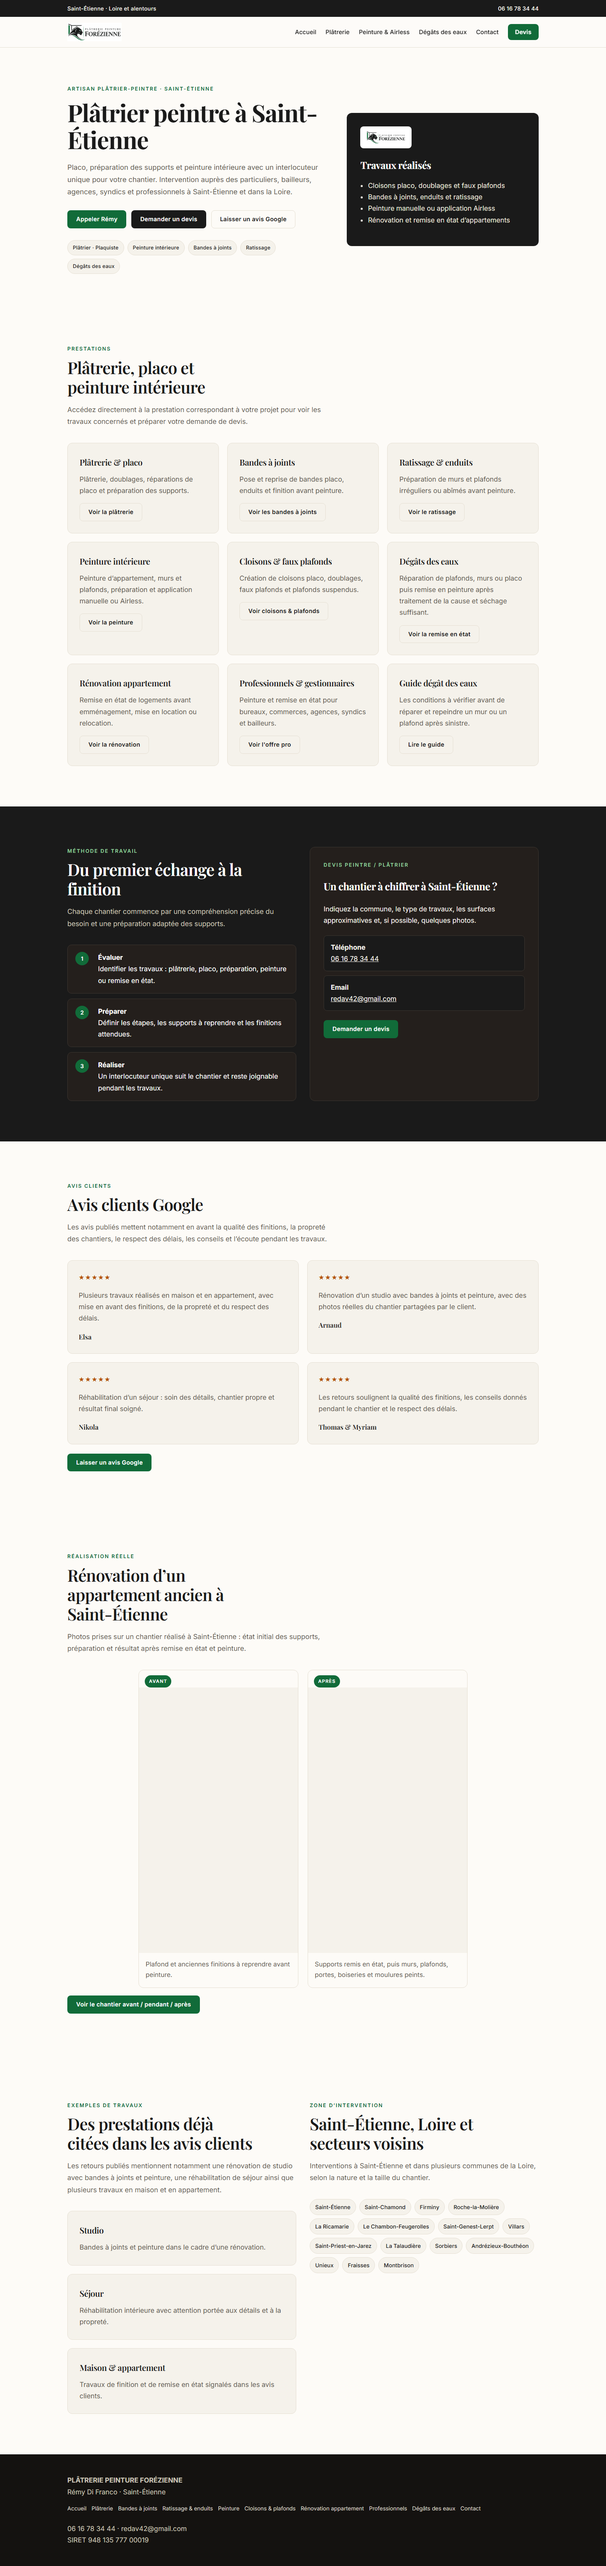
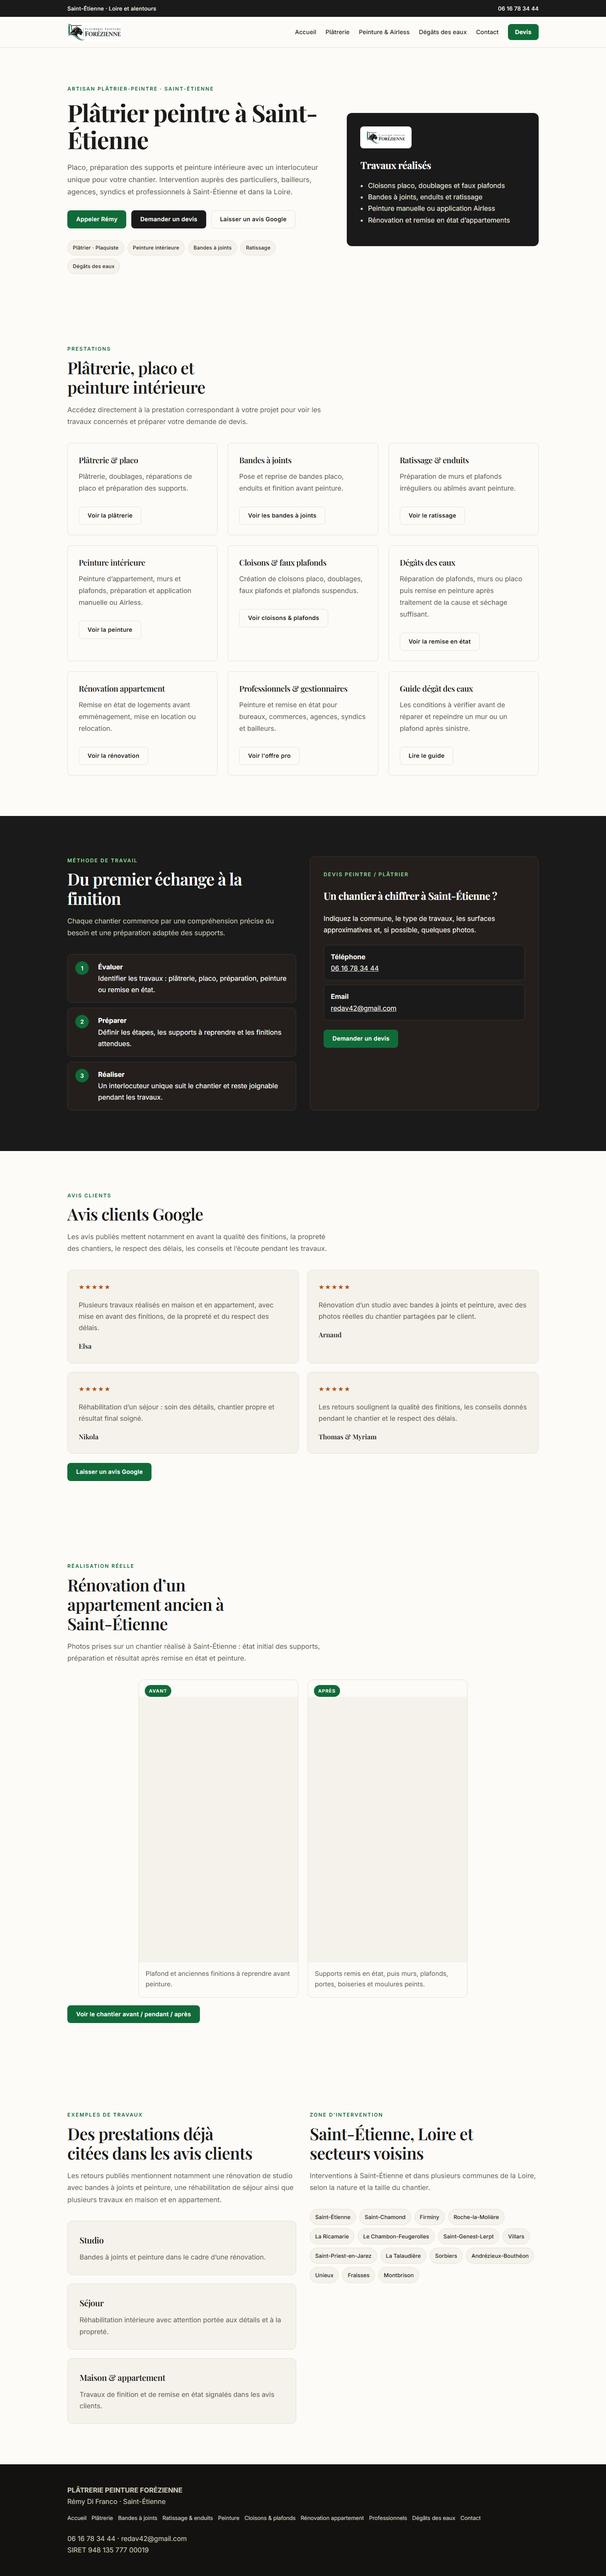
Refine services cards with minimalist premium styling

diff --git a/index.html b/index.html
@@ -24,7 +24,7 @@
 <header><div class="container nav"><a class="brand" href="index.html"><img src="assets/logo-premium.webp" width="660" height="225" alt="Panthère - Plâtrerie Peinture Forézienne"><span>PLÂTRERIE PEINTURE<br>FORÉZIENNE</span></a><nav aria-label="Navigation principale"><a href="index.html">Accueil</a><a href="platrerie.html">Plâtrerie</a><a href="peinture-airless.html">Peinture & Airless</a><a href="degats-des-eaux.html">Dégâts des eaux</a><a href="contact.html">Contact</a><a class="btn btn-green" href="contact.html">Devis</a></nav></div></header>
 <main id="contenu">
 <section class="hero"><div class="container hero-grid"><div><div class="eyebrow">Artisan plâtrier-peintre · Saint-Étienne</div><h1>Plâtrier peintre à Saint-Étienne</h1><p>Placo, préparation des supports et peinture intérieure avec un interlocuteur unique pour votre chantier. Intervention auprès des particuliers, bailleurs, agences, syndics et professionnels à Saint-Étienne et dans la Loire.</p><div class="hero-actions"><a class="btn btn-green" href="tel:+33616783444">Appeler Rémy</a><a class="btn btn-dark" href="contact.html">Demander un devis</a><a class="btn btn-outline" href="https://g.page/r/CVd1CIpYXGkXEBM/review" target="_blank" rel="noopener noreferrer">Laisser un avis Google</a></div><div class="proof"><span class="chip">Plâtrier · Plaquiste</span><span class="chip">Peinture intérieure</span><span class="chip">Bandes à joints</span><span class="chip">Ratissage</span><span class="chip">Dégâts des eaux</span></div></div><aside class="hero-card"><img src="assets/logo-premium.webp" width="660" height="225" alt="Logo Plâtrerie Peinture Forézienne"><h2>Travaux réalisés</h2><ul><li>Cloisons placo, doublages et faux plafonds</li><li>Bandes à joints, enduits et ratissage</li><li>Peinture manuelle ou application Airless</li><li>Rénovation et remise en état d’appartements</li></ul></aside></div></section>
-<section><div class="container"><div class="section-head"><div class="eyebrow">Prestations</div><h2>Plâtrerie, placo et peinture intérieure</h2><p>Accédez directement à la prestation correspondant à votre projet pour voir les travaux concernés et préparer votre demande de devis.</p></div><div class="grid-3"><article class="card"><h3>Plâtrerie & placo</h3><p>Plâtrerie, doublages, réparations de placo et préparation des supports.</p><p style="margin-top:12px"><a class="btn btn-outline" href="platrerie.html">Voir la plâtrerie</a></p></article><article class="card"><h3>Bandes à joints</h3><p>Pose et reprise de bandes placo, enduits et finition avant peinture.</p><p style="margin-top:12px"><a class="btn btn-outline" href="bandes-a-joints-jointeur.html">Voir les bandes à joints</a></p></article><article class="card"><h3>Ratissage & enduits</h3><p>Préparation de murs et plafonds irréguliers ou abîmés avant peinture.</p><p style="margin-top:12px"><a class="btn btn-outline" href="ratissage-enduits.html">Voir le ratissage</a></p></article><article class="card"><h3>Peinture intérieure</h3><p>Peinture d’appartement, murs et plafonds, préparation et application manuelle ou Airless.</p><p style="margin-top:12px"><a class="btn btn-outline" href="peinture-airless.html">Voir la peinture</a></p></article><article class="card"><h3>Cloisons & faux plafonds</h3><p>Création de cloisons placo, doublages, faux plafonds et plafonds suspendus.</p><p style="margin-top:12px"><a class="btn btn-outline" href="cloisons-faux-plafonds.html">Voir cloisons & plafonds</a></p></article><article class="card"><h3>Dégâts des eaux</h3><p>Réparation de plafonds, murs ou placo puis remise en peinture après traitement de la cause et séchage suffisant.</p><p style="margin-top:12px"><a class="btn btn-outline" href="degats-des-eaux.html">Voir la remise en état</a></p></article><article class="card"><h3>Rénovation appartement</h3><p>Remise en état de logements avant emménagement, mise en location ou relocation.</p><p style="margin-top:12px"><a class="btn btn-outline" href="renovation-appartement.html">Voir la rénovation</a></p></article><article class="card"><h3>Professionnels & gestionnaires</h3><p>Peinture et remise en état pour bureaux, commerces, agences, syndics et bailleurs.</p><p style="margin-top:12px"><a class="btn btn-outline" href="professionnels.html">Voir l'offre pro</a></p></article><article class="card"><h3>Guide dégât des eaux</h3><p>Les conditions à vérifier avant de réparer et repeindre un mur ou un plafond après sinistre.</p><p style="margin-top:12px"><a class="btn btn-outline" href="quand-repeindre-apres-degat-des-eaux.html">Lire le guide</a></p></article></div></div></section>
+<section><div class="container"><div class="section-head"><div class="eyebrow">Prestations</div><h2>Plâtrerie, placo et peinture intérieure</h2><p>Accédez directement à la prestation correspondant à votre projet pour voir les travaux concernés et préparer votre demande de devis.</p></div><div class="grid-3 services-grid"><article class="card"><h3>Plâtrerie & placo</h3><p>Plâtrerie, doublages, réparations de placo et préparation des supports.</p><p style="margin-top:12px"><a class="btn btn-outline" href="platrerie.html">Voir la plâtrerie</a></p></article><article class="card"><h3>Bandes à joints</h3><p>Pose et reprise de bandes placo, enduits et finition avant peinture.</p><p style="margin-top:12px"><a class="btn btn-outline" href="bandes-a-joints-jointeur.html">Voir les bandes à joints</a></p></article><article class="card"><h3>Ratissage & enduits</h3><p>Préparation de murs et plafonds irréguliers ou abîmés avant peinture.</p><p style="margin-top:12px"><a class="btn btn-outline" href="ratissage-enduits.html">Voir le ratissage</a></p></article><article class="card"><h3>Peinture intérieure</h3><p>Peinture d’appartement, murs et plafonds, préparation et application manuelle ou Airless.</p><p style="margin-top:12px"><a class="btn btn-outline" href="peinture-airless.html">Voir la peinture</a></p></article><article class="card"><h3>Cloisons & faux plafonds</h3><p>Création de cloisons placo, doublages, faux plafonds et plafonds suspendus.</p><p style="margin-top:12px"><a class="btn btn-outline" href="cloisons-faux-plafonds.html">Voir cloisons & plafonds</a></p></article><article class="card"><h3>Dégâts des eaux</h3><p>Réparation de plafonds, murs ou placo puis remise en peinture après traitement de la cause et séchage suffisant.</p><p style="margin-top:12px"><a class="btn btn-outline" href="degats-des-eaux.html">Voir la remise en état</a></p></article><article class="card"><h3>Rénovation appartement</h3><p>Remise en état de logements avant emménagement, mise en location ou relocation.</p><p style="margin-top:12px"><a class="btn btn-outline" href="renovation-appartement.html">Voir la rénovation</a></p></article><article class="card"><h3>Professionnels & gestionnaires</h3><p>Peinture et remise en état pour bureaux, commerces, agences, syndics et bailleurs.</p><p style="margin-top:12px"><a class="btn btn-outline" href="professionnels.html">Voir l'offre pro</a></p></article><article class="card"><h3>Guide dégât des eaux</h3><p>Les conditions à vérifier avant de réparer et repeindre un mur ou un plafond après sinistre.</p><p style="margin-top:12px"><a class="btn btn-outline" href="quand-repeindre-apres-degat-des-eaux.html">Lire le guide</a></p></article></div></div></section>
 <section class="dark"><div class="container split"><div><div class="section-head"><div class="eyebrow">Méthode de travail</div><h2>Du premier échange à la finition</h2><p>Chaque chantier commence par une compréhension précise du besoin et une préparation adaptée des supports.</p></div><div class="steps"><div class="step"><b>1</b><div><strong>Évaluer</strong><br>Identifier les travaux : plâtrerie, placo, préparation, peinture ou remise en état.</div></div><div class="step"><b>2</b><div><strong>Préparer</strong><br>Définir les étapes, les supports à reprendre et les finitions attendues.</div></div><div class="step"><b>3</b><div><strong>Réaliser</strong><br>Un interlocuteur unique suit le chantier et reste joignable pendant les travaux.</div></div></div></div><div class="cta-box"><div class="eyebrow">Devis peintre / plâtrier</div><h2>Un chantier à chiffrer à Saint-Étienne ?</h2><p>Indiquez la commune, le type de travaux, les surfaces approximatives et, si possible, quelques photos.</p><div class="contact-lines"><div class="contact-line"><strong>Téléphone</strong><br><a href="tel:+33616783444">06 16 78 34 44</a></div><div class="contact-line"><strong>Email</strong><br><a href="mailto:redav42@gmail.com?subject=Demande%20de%20devis%20-%20Pl%C3%A2trerie%20Peinture%20For%C3%A9zienne">redav42@gmail.com</a></div></div><a class="btn btn-green" href="contact.html">Demander un devis</a></div></div></section>
 <section><div class="container"><div class="section-head"><div class="eyebrow">Avis clients</div><h2>Avis clients Google</h2><p>Les avis publiés mettent notamment en avant la qualité des finitions, la propreté des chantiers, le respect des délais, les conseils et l’écoute pendant les travaux.</p></div><div class="review-grid"><article class="review"><div class="stars">★★★★★</div><p>Plusieurs travaux réalisés en maison et en appartement, avec mise en avant des finitions, de la propreté et du respect des délais.</p><strong>Elsa</strong></article><article class="review"><div class="stars">★★★★★</div><p>Rénovation d’un studio avec bandes à joints et peinture, avec des photos réelles du chantier partagées par le client.</p><strong>Arnaud</strong></article><article class="review"><div class="stars">★★★★★</div><p>Réhabilitation d’un séjour : soin des détails, chantier propre et résultat final soigné.</p><strong>Nikola</strong></article><article class="review"><div class="stars">★★★★★</div><p>Les retours soulignent la qualité des finitions, les conseils donnés pendant le chantier et le respect des délais.</p><strong>Thomas & Myriam</strong></article></div><div style="margin-top:22px"><a class="btn btn-green" href="https://g.page/r/CVd1CIpYXGkXEBM/review" target="_blank" rel="noopener noreferrer">Laisser un avis Google</a></div></div></section>
 <section><div class="container"><div class="section-head"><div class="eyebrow">Réalisation réelle</div><h2>Rénovation d’un appartement ancien à Saint-Étienne</h2><p>Photos prises sur un chantier réalisé à Saint-Étienne : état initial des supports, préparation et résultat après remise en état et peinture.</p></div><div class="before-after" data-gallery><figure><span class="photo-badge">Avant</span><a href="assets/chantiers/web/20230530_095335.jpg"><picture><source type="image/webp" srcset="assets/chantiers/display/20230530_095335.webp"><img src="assets/chantiers/display/20230530_095335.jpg" width="1012" height="1800" loading="lazy" decoding="async" alt="Plafond ancien fissuré avant rénovation dans un appartement à Saint-Étienne"></picture></a><figcaption>Plafond et anciennes finitions à reprendre avant peinture.</figcaption></figure><figure><span class="photo-badge">Après</span><a href="assets/chantiers/web/20230922_120900.jpg"><picture><source type="image/webp" srcset="assets/chantiers/display/20230922_120900.webp"><img src="assets/chantiers/display/20230922_120900.jpg" width="1015" height="1800" loading="lazy" decoding="async" alt="Pièce d’un appartement à Saint-Étienne après préparation et peinture"></picture></a><figcaption>Supports remis en état, puis murs, plafonds, portes, boiseries et moulures peints.</figcaption></figure></div><p style="margin-top:18px"><a class="btn btn-green" href="chantier-renovation-appartement-saint-etienne-2023.html">Voir le chantier avant / pendant / après</a></p></div></section>

diff --git a/styles.css b/styles.css
@@ -65,6 +65,16 @@ section{padding:clamp(56px,7vw,96px) 0}
 .card h3{margin:0 0 10px;font-size:1.25rem;font-weight:600}
 .card p{margin:0;color:var(--muted);line-height:1.7}
 .card .btn{margin-top:4px}
+.services-grid{gap:24px;align-items:stretch}
+.services-grid .card{background:var(--paper);border:1px solid var(--line);border-radius:8px;box-shadow:none;padding:28px 26px 24px;display:flex;flex-direction:column}
+.services-grid .card h3{font-weight:600;font-size:1.18rem;line-height:1.28;margin:0 0 12px}
+.services-grid .card>p:first-of-type{font-weight:400;line-height:1.75}
+.services-grid .card>p:last-child{margin-top:auto;padding-top:18px}
+.services-grid .card .btn{margin-top:0}
+@media(hover:hover) and (pointer:fine){
+  .services-grid .card{transition:transform .3s ease,box-shadow .3s ease}
+  .services-grid .card:hover{transform:translateY(-3px);box-shadow:0 10px 28px rgba(26,26,26,.05)}
+}
 .split{display:grid;grid-template-columns:minmax(0,1fr) minmax(0,1fr);gap:32px}
 .split .grid-3{grid-template-columns:1fr}
 .dark{background:var(--charcoal);color:var(--on-dark)}
@@ -159,8 +169,10 @@ nav a.btn-green{padding:10px 16px}
   .section-head{margin-bottom:28px}
   .section-head p{font-size:1rem}
   .hero-actions .btn{width:100%}
+  .services-grid{gap:16px}
+  .services-grid .card{padding:24px 20px 20px}
   footer .container{flex-direction:column}
   body{padding-bottom:calc(74px + env(safe-area-inset-bottom))}
   .mobile-cta{display:grid;grid-template-columns:1fr 1fr;position:fixed;left:0;right:0;bottom:0;z-index:50;background:var(--paper);border-top:1px solid var(--line);padding:9px 9px calc(9px + env(safe-area-inset-bottom));gap:8px}
 }
-@media(prefers-reduced-motion:reduce){html{scroll-behavior:auto};.btn{transition:none}}
+@media(prefers-reduced-motion:reduce){html{scroll-behavior:auto};.btn,.services-grid .card{transition:none}.services-grid .card:hover{transform:none;box-shadow:none}}

diff --git a/reports/design_phase2_services_cards_latest.md b/reports/design_phase2_services_cards_latest.md
@@ -1,0 +1,35 @@
+# Design phase 2 — cartes Prestations
+
+Verdict : **DESIGN_PHASE2_SERVICES_CARDS_COMPLETE**
+
+## Git
+- HEAD initial : `ba4a3b2be973470487ef2d2f712812f848649320`
+- Fichiers : `styles.css`, `index.html` (classe `services-grid` uniquement)
+
+## CSS
+- `.services-grid`, `.services-grid .card` (+ h3, p, btn)
+- Hover desktop : `translateY(-3px)` via `@media (hover: hover) and (pointer: fine)`
+- `prefers-reduced-motion` : transition et translation désactivées
+
+## Icônes
+Aucune icône dans la section Prestations — rien à supprimer ni à ajouter.
+
+## QA
+- BROKEN_IMAGES = 0
+- BROKEN_INTERNAL_LINKS = 0
+- CONSOLE_ERRORS = 0
+- JS_RUNTIME_ERRORS = 0
+- HORIZONTAL_OVERFLOW_PAGES = 0
+- PAGES_WITHOUT_H1 = 0
+- PAGES_WITH_MULTIPLE_H1 = 0
+- CHANTIER_2023_INDEXABLE = OK
+- Avant/Après, `.step`, menu mobile = PASS
+
+## Responsive
+375 / 430 / 768 / 1024 / 1440 : overflow 0. Cartes lisibles, grille 3 → 2 → 1.
+
+## SEO
+- SEO_TEXT_CHANGED = 0
+- SEO_META_CHANGED = 0
+- SEO_URL_CHANGED = 0
+- SEO_INTERNAL_LINK_CHANGED = 0
